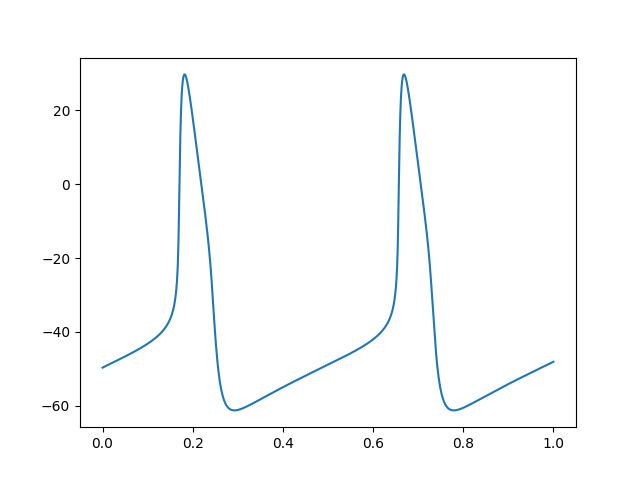
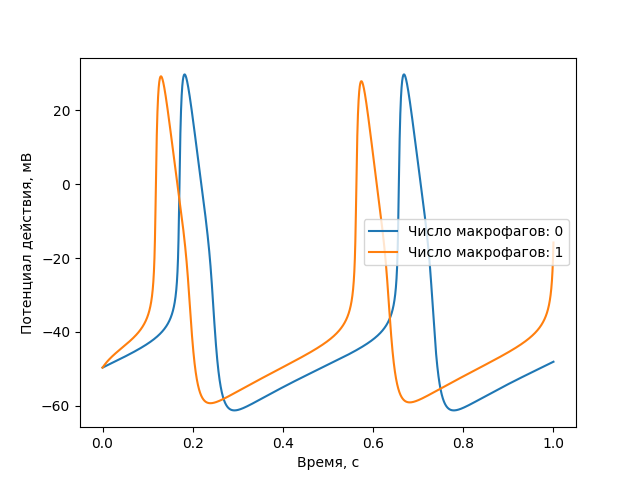
Протоколы 1и 2

diff --git a/src/protocol_1.py b/src/protocol_1.py
@@ -1,0 +1,65 @@
+from logger_config import setup_logger
+from scipy_solver import ScipySolver
+import model as comp_model
+import matplotlib.pyplot as plt
+import numpy as np
+
+
+
+def exp_1(t_span, number_macrofags, g_gap = 0.1):
+    # Настройка логирования
+    logger = setup_logger(log_file = "logs/solver.log")
+    
+    try:
+        logger.info("Запуск прокотола 1...")
+
+
+        logger.info("Инициализация констант и начальных значений...")
+        init_states, constants = comp_model.initConsts()
+
+        V = {}
+        time = {}
+        V_macro = {}
+
+        for number_macrofag in number_macrofags:
+
+            logger.info(f"Расчет модели с числом макрофагов {number_macrofag}")
+
+            constants[58] = number_macrofag
+            constants[59] = g_gap
+            
+            solver = ScipySolver(
+                logger = logger,    
+                model=comp_model.computeRates,
+                t_span=t_span,
+                y0=init_states,
+                args=constants)
+            
+            voi, states = solver.solve()
+
+            V[number_macrofag] = states[0,:]
+            time[number_macrofag] = voi
+            V_macro[number_macrofag] = states[29,:]
+
+        for number_macrofag in number_macrofags:
+            plt.plot(time[number_macrofag],V[number_macrofag], label = f'Число макрофагов: {number_macrofag}')
+
+        plt.xlabel('Время, с')
+        plt.ylabel('Потенциал действия, мВ')
+        plt.legend()
+        plt.savefig('plot.png')
+
+        # Расчет до 10 с.
+        # Поварьировать g_gap = [0.1, 0.5, 1]
+
+        # График (число макрофагов, частота стимуляции)
+        # График (число макрофагов, максимум ПД)
+        # График (число макрофагов, минимум ПД)
+        # График (число макрофагов, амрлитула ПД)
+        # График (число макрофагов, длительность потенциала действия)
+        
+
+        logger.info("Программа завершена успешна")
+
+    except Exception as e:
+        logger.critical(f"Критическая ошибка: {e}", exc_info=True)

diff --git a/src/protocol_2.py b/src/protocol_2.py
@@ -1,0 +1,73 @@
+# Расчет до 10 с.
+# Поварьировать g_gap = [0.1, 0.5, 1, 3]
+# Поварьировать number_macrofag = [1, 2, 3]
+# График (число g_gap, частота стимуляции)
+# График (число g_gap, максимум ПД)
+# График (число g_gap, минимум ПД)
+# График (число g_gap, амрлитула ПД)
+# График (число g_gap, длительность потенциала действия)
+
+
+from logger_config import setup_logger
+from scipy_solver import ScipySolver
+import model as comp_model
+import matplotlib.pyplot as plt
+import numpy as np
+
+def protocol_2():
+    # Настройка логирования
+    logger = setup_logger(log_file = "logs/solver.log")
+    
+    try:
+        logger.info("Запуск прокотола 2...")
+
+
+        logger.info("Инициализация констант и начальных значений...")
+        init_states, constants = comp_model.initConsts()
+
+        gaps = [0.1, 0.5, 1, 3]
+
+        V = {}
+        time = {}
+        V_mak = {}
+
+        for gap in gaps:
+
+            logger.info(f"Расчет модели с gap = {gap}")
+
+            constants[58] = 1
+            constants[59] = gap
+            
+            solver = ScipySolver(
+                logger = logger,    
+                model=comp_model.computeRates,
+                t_span=[0, 1],
+                y0=init_states,
+                args=constants)
+            
+            voi, states = solver.solve()
+
+            V[gap] = states[0,:]
+            time[gap] = voi
+            V_mak[gap] = states[29,:]
+
+        for gap in gaps:
+            plt.plot(time[gap],V[gap], label = f'G_gap: {gap}')
+
+        plt.xlabel('Время, с')
+        plt.ylabel('Потенциал действия, мВ')
+        plt.legend()
+        plt.savefig('plot.png')
+
+        for gap in gaps:
+            plt.plot(time[gap],V_mak[gap], label = f'G_gap: {gap}')
+
+        plt.xlabel('Время, с')
+        plt.ylabel('Потенциал действия, мВ')
+        plt.legend()
+        plt.savefig('plot1.png')
+
+        logger.info("Программа завершена успешна")
+
+    except Exception as e:
+        logger.critical(f"Критическая ошибка: {e}", exc_info=True)

diff --git a/src/main.py b/src/main.py
@@ -2,6 +2,9 @@ from logger_config import setup_logger
 from scipy_solver import ScipySolver
 import model as comp_model
 import matplotlib.pyplot as plt
+import numpy as np
+
+from protocol_1 import exp_1
 
 
 def main():
@@ -21,6 +24,7 @@ def main():
             t_span=[0, 1],
             y0=init_states,
             args=constants)
+        
         voi, states = solver.solve()
 
         # Расчет алгебраических переменных
@@ -35,5 +39,11 @@ def main():
     except Exception as e:
         logger.critical(f"Критическая ошибка: {e}", exc_info=True)
 
+
 if __name__ == "__main__":
-    main()
+    # main()
+
+    number_cell = [0, 1]
+    time = [0, 1]
+
+    exp_1(t_span=time, number_macrofags=number_cell)
